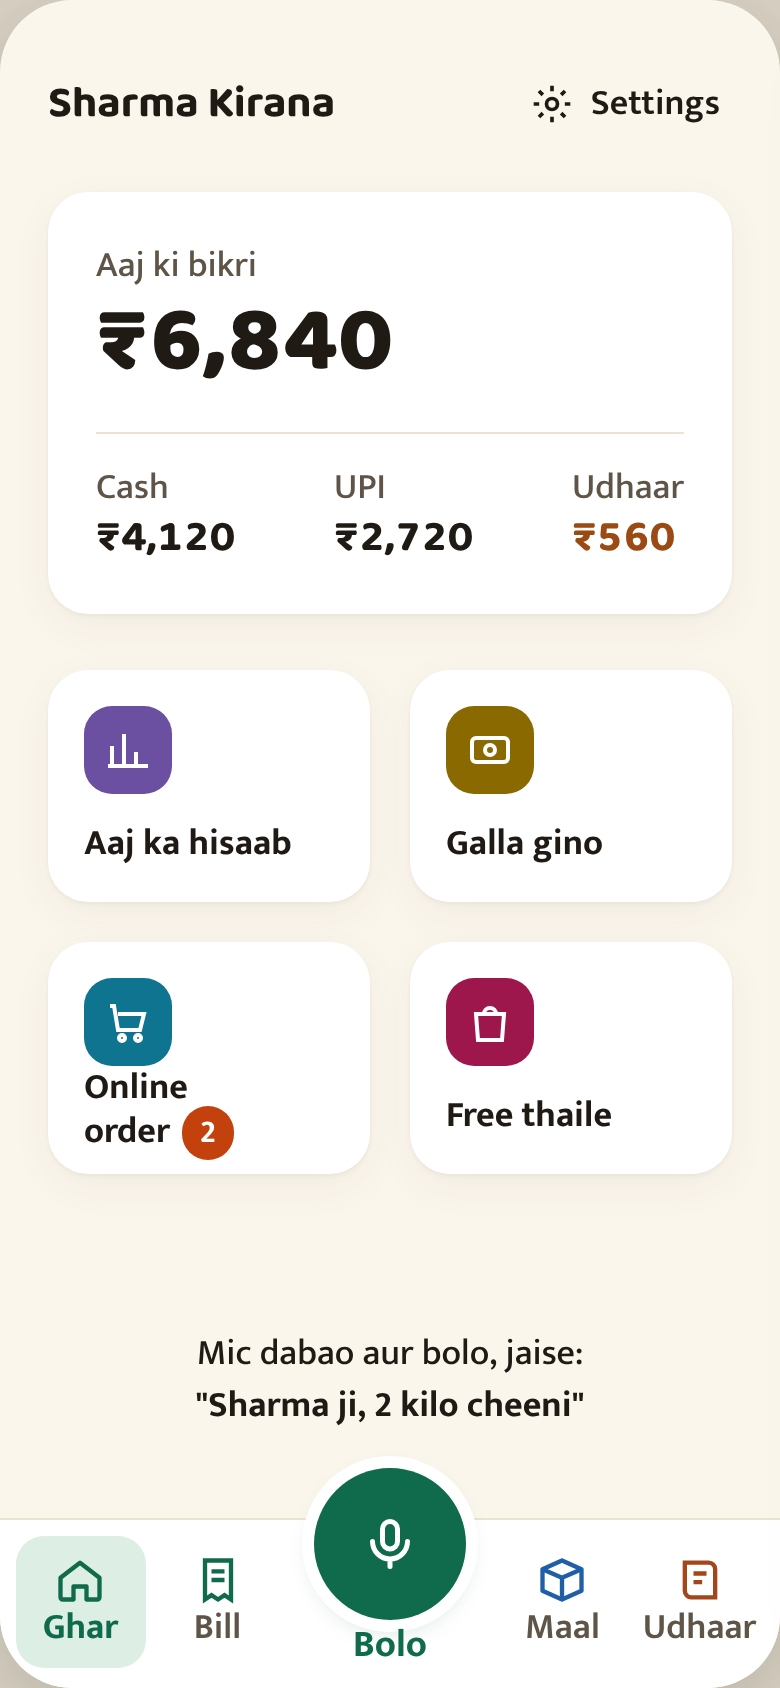
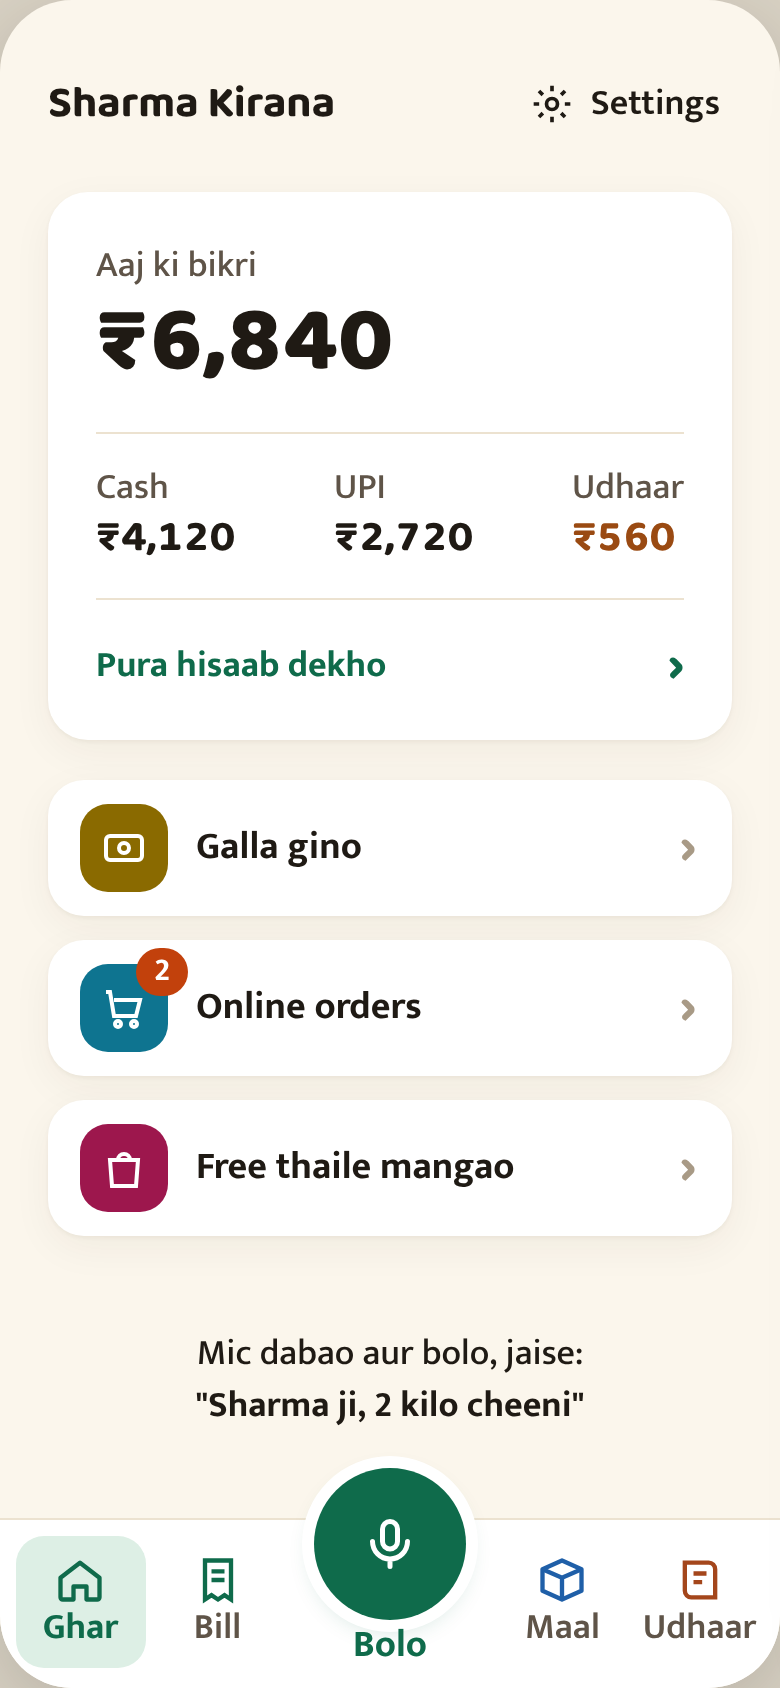
Design: owner-test round 2 fixes (real totals via highlighted best guess, simpler home rows, clearer undo)
Claude-Session: https://claude.ai/code/session_01Dc9KGnrAUXnUwkJ5n5yUhd

Changed region(s): [[0.0615, 0.3389, 0.9231, 0.7393]]

diff --git a/design/preview.html b/design/preview.html
@@ -72,6 +72,17 @@
 .tot{display:flex;justify-content:space-between;align-items:baseline;margin-top:20px}
 .warn{background:#fff;border:2px solid var(--unsb);color:#7A5600}
 .undorow{display:flex;justify-content:space-between;align-items:center;margin-top:28px;padding:0 4px}
+
+.rows{margin-top:20px;display:flex;flex-direction:column;gap:12px}
+.rowb{background:var(--s);border-radius:18px;box-shadow:var(--sh);height:68px;padding:0 18px 0 16px;display:flex;align-items:center;gap:14px;font-weight:700;font-size:19px}
+.rowb .grow{flex:1}.rowb .chev{color:#A89A86;font:700 26px 'Baloo 2'}
+.chipw{position:relative;flex:none}.chipw .badge{position:absolute;top:-8px;right:-10px;margin:0}
+.more{display:flex;justify-content:space-between;align-items:center;margin-top:16px;padding-top:12px;margin-bottom:-8px;border-top:1px solid var(--line);color:var(--ac);font-weight:700}
+.pb.on{background:var(--ac);color:#fff;box-shadow:none}
+.pb.ud{color:var(--ud)}
+.guess{display:flex;justify-content:space-between;align-items:center;margin-top:10px}
+.gtxt{color:#7A5600;font-weight:600;font-size:18px}
+.chg{white-space:nowrap;height:56px;padding:0 16px;border-radius:14px;border:1.5px solid #C99A1E;color:#7A5600;display:flex;align-items:center;font-weight:700;background:#fff}
 </style></head><body>
 <svg width="0" height="0" style="position:absolute"><defs>
 <symbol id="mic" viewBox="0 0 24 24" fill="none" stroke="currentColor" stroke-width="2" stroke-linecap="round"><rect x="9" y="3" width="6" height="11" rx="3"/><path d="M5 11a7 7 0 0 0 14 0M12 18v3"/></symbol>
@@ -89,56 +100,41 @@
 <symbol id="wa" viewBox="0 0 24 24" fill="none" stroke="currentColor" stroke-width="2"><path d="M4 20l1.3-4A8 8 0 1 1 8 19z"/></symbol>
 </defs></svg>
 
-<div class="wrap"><div class="cap">1 · Ghar (Home)</div><div class="ph">
-<div class="top"><div class="store">Sharma Kirana</div><div class="ghost"><svg width="22" height="22"><use href="#gear"/></svg>Settings</div></div>
+<div class="wrap"><div class="cap">1 · Ghar (Home)</div><div class="ph"><div class="top"><div class="store">Sharma Kirana</div><div class="ghost"><svg width="22" height="22"><use href="#gear"/></svg>Settings</div></div>
 <div class="pad">
 <div class="sales"><div class="lab">Aaj ki bikri</div><div class="big">₹6,840</div>
-<div class="three"><div><div class="lab">Cash</div><div class="num">₹4,120</div></div><div><div class="lab">UPI</div><div class="num">₹2,720</div></div><div><div class="lab">Udhaar</div><div class="num" style="color:var(--ud)">₹560</div></div></div></div>
-<div class="grid">
-<div class="tile"><div class="chip" style="background:var(--c-his)"><svg width="24" height="24"><use href="#chart"/></svg></div>Aaj ka hisaab</div>
-<div class="tile"><div class="chip" style="background:var(--c-gal)"><svg width="24" height="24"><use href="#cash"/></svg></div>Galla gino</div>
-<div class="tile"><div class="chip" style="background:var(--c-ord)"><svg width="24" height="24"><use href="#cart"/></svg></div><div>Online order<span class="badge">2</span></div></div>
-<div class="tile"><div class="chip" style="background:var(--c-bag)"><svg width="24" height="24"><use href="#bag"/></svg></div>Free thaile</div></div>
+<div class="three"><div><div class="lab">Cash</div><div class="num">₹4,120</div></div><div><div class="lab">UPI</div><div class="num">₹2,720</div></div><div><div class="lab">Udhaar</div><div class="num" style="color:var(--ud)">₹560</div></div></div>
+<div class="more"><span>Pura hisaab dekho</span><span style="font:700 26px 'Baloo 2'">›</span></div></div>
+<div class="rows"><div class="rowb"><div class="chipw"><div class="chip" style="background:var(--c-gal)"><svg width="24" height="24"><use href="#cash"/></svg></div></div><div class="grow">Galla gino</div><div class="chev">›</div></div><div class="rowb"><div class="chipw"><div class="chip" style="background:var(--c-ord)"><svg width="24" height="24"><use href="#cart"/></svg></div><span class="badge">2</span></div><div class="grow">Online orders</div><div class="chev">›</div></div><div class="rowb"><div class="chipw"><div class="chip" style="background:var(--c-bag)"><svg width="24" height="24"><use href="#bag"/></svg></div></div><div class="grow">Free thaile mangao</div><div class="chev">›</div></div></div>
 </div>
-<div class="say">Mic dabao aur bolo, jaise:<br><b>"Sharma ji, 2 kilo cheeni"</b></div><div class="band"><div class="tab on"><svg width="26" height="26" style="color:inherit"><use href="#home"/></svg>Ghar</div><div class="tab"><svg width="26" height="26" style="color:var(--ac)"><use href="#bill"/></svg>Bill</div><div></div><div class="tab"><svg width="26" height="26" style="color:var(--c-maal)"><use href="#box"/></svg>Maal</div><div class="tab"><svg width="26" height="26" style="color:var(--c-udh)"><use href="#book"/></svg>Udhaar</div></div><div class="dock"><div class="c" style="background:var(--ac)"><svg width="30" height="30" style="color:#fff"><use href="#mic"/></svg></div><span style="color:var(--ac)">Bolo</span></div>
-</div></div>
-
-<div class="wrap"><div class="cap">2 · Sun raha hai (Listening)</div><div class="ph">
-<div class="top"><div class="ghost"><svg width="22" height="22"><use href="#back"/></svg>Peeche</div><div></div></div>
-<div class="pad">
-<div class="h1" style="margin-top:16px">Boliye, sun raha hoon</div>
-<div class="live">Sharma ji, 2 kilo cheeni, 1 Maggi <span class="dim">…</span></div>
-<div class="note">Bolna band karte hi aage badhega.</div>
-</div>
+<div class="say">Mic dabao aur bolo, jaise:<br><b>"Sharma ji, 2 kilo cheeni"</b></div>
+<div class="band"><div class="tab on"><svg width="26" height="26" style="color:inherit"><use href="#home"/></svg>Ghar</div><div class="tab"><svg width="26" height="26" style="color:var(--ac)"><use href="#bill"/></svg>Bill</div><div></div><div class="tab"><svg width="26" height="26" style="color:var(--c-maal)"><use href="#box"/></svg>Maal</div><div class="tab"><svg width="26" height="26" style="color:var(--c-udh)"><use href="#book"/></svg>Udhaar</div></div><div class="dock"><div class="c" style="background:var(--ac)"><svg width="30" height="30" style="color:#fff"><use href="#mic"/></svg></div><span style="color:var(--ac)">Bolo</span></div></div></div>
+<div class="wrap"><div class="cap">2 · Sun raha hai (Listening)</div><div class="ph"><div class="top"><div class="ghost"><svg width="22" height="22"><use href="#back"/></svg>Peeche</div><div></div></div>
+<div class="pad"><div class="h1" style="margin-top:16px">Boliye, sun raha hoon</div>
+<div class="live">Sharma ji, 2 kilo cheeni, 1 Maggi</div>
+<div class="note">Bolna band karte hi aage badhega.</div></div>
 <div class="act outline">Ho gaya, aage chalo</div>
-<div class="band"></div><div class="dock"><div class="c" style="background:#C2410C"><svg width="30" height="30" style="color:#fff"><use href="#mic"/></svg></div><span style="color:#C2410C">Sun raha hai</span></div>
-</div></div>
-
-<div class="wrap"><div class="cap">3 · Bill check karo (Review)</div><div class="ph">
-<div class="top"><div class="ghost"><svg width="22" height="22"><use href="#back"/></svg>Peeche</div><div></div></div>
+<div class="band"></div><div class="dock"><div class="c" style="background:#C2410C"><svg width="30" height="30" style="color:#fff"><use href="#mic"/></svg></div><span style="color:#C2410C">Sun raha hai</span></div></div></div>
+<div class="wrap"><div class="cap">3 · Bill check karo (Review)</div><div class="ph"><div class="top"><div class="ghost"><svg width="22" height="22"><use href="#back"/></svg>Peeche</div><div></div></div>
 <div class="pad">
-<div class="who" style="margin-top:12px"><div class="av">S</div><div class="t"><div class="lab" style="line-height:20px">Bill kiska?</div><div class="h1">Sharma ji</div></div><div class="link">Badlo</div></div>
+<div class="who" style="margin-top:16px"><div class="av">S</div><div class="t"><div class="lab" style="line-height:20px">Bill kiska?</div><div class="h1">Sharma ji</div></div><div class="link">Badlo</div></div>
 <div class="items">
 <div class="it"><div><div class="nm">Cheeni</div><div class="pr">₹46/kg · ₹92</div></div><div class="step"><i>−</i><em>2 kg</em><i>+</i></div></div>
-<div class="it u"><div class="qrow"><div><div class="nm">Maggi</div><div class="ask" style="margin:0">Kaunsi? Ek dabao</div></div><div class="step"><i>−</i><em>1</em><i>+</i></div></div><div class="opts"><div class="opt">Maggi chhota<span>₹14 ek</span></div><div class="opt">Maggi 4 wala<span>₹56 ek</span></div></div></div>
+<div class="it u"><div class="qrow" style="margin:0"><div><div class="nm">Maggi chhota</div><div class="pr">₹14 ek</div></div><div class="step"><i>−</i><em>1</em><i>+</i></div></div>
+<div class="guess"><span class="gtxt">Yahi wali Maggi?</span><div class="chg">Doosra chuno</div></div></div>
 </div>
 <div class="sec">Paise kaise mile?</div>
-<div class="pay"><div class="pb on">Cash</div><div class="pb">UPI</div><div class="pb" style="color:var(--ud)">Udhaar</div></div>
-<div class="tot"><span class="num">Kul</span><span><span class="big" style="font-size:38px">₹92</span> <span style="color:#7A5600;font-weight:700">+ Maggi</span></span></div>
+<div class="pay"><div class="pb on">✓ Cash</div><div class="pb">UPI</div><div class="pb ud">Udhaar</div></div>
 </div>
-<div class="act warn">↑ Pehle Maggi chuno</div>
-<div class="band"></div><div class="dock"><div class="c" style="background:var(--ac)"><svg width="30" height="30" style="color:#fff"><use href="#mic"/></svg></div><span style="color:var(--ac)">Bolke badlo</span></div>
-</div></div>
-
-<div class="wrap"><div class="cap">4 · Ho gaya (Saved)</div><div class="ph">
-<div class="pad">
+<div class="act done">✓ Save karo · ₹106</div>
+<div class="band"></div><div class="dock"><div class="c" style="background:var(--ac)"><svg width="30" height="30" style="color:#fff"><use href="#mic"/></svg></div><span style="color:var(--ac)">Bolke badlo</span></div></div></div>
+<div class="wrap"><div class="cap">4 · Ho gaya (Saved)</div><div class="ph"><div class="pad">
 <div class="ok"><div class="okc"><svg width="48" height="48" style="color:#fff"><use href="#tick"/></svg></div>
 <div class="h1" style="margin-top:24px">Bill ban gaya</div><div class="lab" style="margin-top:4px">Sharma ji · Cash</div><div class="big" style="margin-top:8px">₹120</div></div>
-<div class="changed"><span>Stock se 2 kg cheeni aur 2 Maggi kam ho gaye</span></div>
+<div class="changed"><span>Stock se kam hua: 2 kg cheeni, 2 Maggi</span></div>
 <div class="wa" style="color:#137A3C;box-shadow:inset 0 0 0 2px #1FA855"><svg width="26" height="26"><use href="#wa"/></svg>Sharma ji ko WhatsApp karo</div>
-<div class="undorow"><span class="lab">Galti hui?</span><div class="undo">Bill hatao</div></div>
+<div class="undorow"><span class="lab">Galti hui?</span><div class="undo">Bill hatao, stock wapas</div></div>
 </div>
 <div class="act done"><svg width="24" height="24"><use href="#bill"/></svg>Naya bill</div>
-<div class="band"></div><div class="dock"><div class="c" style="background:var(--ac)"><svg width="30" height="30" style="color:#fff"><use href="#mic"/></svg></div><span style="color:var(--ac)">Bolo</span></div>
-</div></div>
+<div class="band"></div><div class="dock"><div class="c" style="background:var(--ac)"><svg width="30" height="30" style="color:#fff"><use href="#mic"/></svg></div><span style="color:var(--ac)">Bolo</span></div></div></div>
 </body></html>
